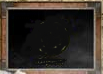
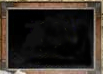
2016-02-27T21:12

diff --git a/frontEnd/js/BackgroundImg.js b/frontEnd/js/BackgroundImg.js
@@ -15,7 +15,6 @@
  */
 function BackgroundImg() {
     var mainImg = {} ;          // главная кртинка( body {background-image}
-    var kHW = 0 ;               // отношение height/width для mainImg
     var clouds = {} ;           // облака
     var philosophyPictures = {} ; // картинки для иллюстрации
     var centralCircle = {} ;      // центральный круг
@@ -29,9 +28,11 @@ function BackgroundImg() {
     var $centralCircleTextBlock = $('#centralCircleText') ;
     var $stampBlock = $('#stamp') ;
     var animateStop = false ;
+    var centralCircleText ;       // объект поддержки размера области ввода
     var _this = this ;
     //------------------------------------//
     this.init = function() {
+        centralCircleText = new CentralCircleText() ;
         dirSmoke = dirImages + '/smoke' ;
         dirPictures =  dirImages + '/philosophy' ;
         dirMainImg =   dirImages + '/userInterface' ;
@@ -561,9 +562,6 @@ function BackgroundImg() {
         _this.defineAbsolutePosition($centralCircleBlock,place,ballPicture) ;
         defineTextArea($centralCircleTextBlock,textAreaPlace,textAreaBackGround,
             currentColor,0,readonly,idText) ;
-
- //           centralCircleRotate($centralCircleBlock) ;
-
     } ;
     this.defineAbsolutePosition = function($block,place,imgFile) {
         $block.css('position','absolute') ;
@@ -592,25 +590,31 @@ function BackgroundImg() {
         $block.css('left',x1) ;
         $block.css('color',color) ;
         if (readonly) {
-            $txt.attr('readonly','readonly') ;
+            return ;
         }else {
             $txt.removeAttr('readonly') ;
         }
+        var txtWidth = x2 - x1 ;
+        var txtHeight = y2 - y1 ;
+
+        $block.css('width',txtWidth) ;
+        $block.css('height',txtHeight) ;
+
         $txt.removeAttr('hidden') ;
-        $txt.css('width',x2 - x1) ;
-        $txt.attr('id',idText) ;
-        $txt.css('max-width',x2 - x1) ;
-        $txt.css('height',y2 - y1) ;
-        $txt.css('max-height',y2 - y1) ;
-        $block.css('background-image','url("'+imgFile +'")') ;
-        $block.css('background-repeat','no-repeat') ;
-        $block.css('background-size','100% 100%') ;
-        $block.css('overflow','hidden') ;
-        $txt.css('background-color','rgba(0,0,0,0)') ;
-        $txt.css('color',color) ;
-        $txt.css('border','0') ;
+
         $block.append($txt) ;
 
+        $txt.css('width',0.95*txtWidth) ;
+        //$txt.css('margin-left',5) ;
+        //$txt.css('margin-right',5) ;
+         $txt.attr('id',idText) ;
+        $txt.css('height',0.97 * txtHeight) ;
+        $txt.css('max-height',0.8 * txtHeight) ;
+        $block.css('overflow','hidden') ;
+        $txt.css('background','transparent') ;
+        $txt.css('color',color) ;
+
+        centralCircleText.init(txtWidth,txtHeight,$txt) ;
     } ;
     /**
      * ид области ввода текста
@@ -619,6 +623,9 @@ function BackgroundImg() {
      */
     this.getIdText = function(showType) {
         return centralCircle[showType]['idText'] ;
+    } ;
+    this.getTextAreaBlock = function() {
+        return $centralCircleTextBlock ;
     } ;
     this.centralCircleRotate = function(callback) {
         $centralCircleTextBlock.attr('hidden', 'hidden');

diff --git a/frontEnd/js/CentralCircleText.js b/frontEnd/js/CentralCircleText.js
@@ -1,0 +1,61 @@
+/**
+ * Объект поддерживает изменение рзмеров при вводе
+ * области textArea в центральном круге
+ */
+function CentralCircleText() {
+    var $textArea ;                // элемент <textArea>
+    var blockWidth ;                // обрамляющий блок
+    var blockHeight;
+    var currentHeight = 0 ;
+    var MIN_HEIGHT = 30 ;
+    var _this = this ;
+    //------------------------//
+    this.init = function(blockW,blockH,$txt) {
+ //       currentHeight = 0 ;
+        $textArea = $txt ;
+        blockWidth = blockW ;
+        blockHeight = blockH ;
+        currentHeight = (currentHeight === 0) ? MIN_HEIGHT : currentHeight ;
+        $textArea.css('height',currentHeight) ;
+        $textArea.css('mni-height',MIN_HEIGHT) ;
+ //       $textArea.css('width',blockWidth) ;
+        resize() ;
+        $textArea.autoResize({
+            //  при изменение размера:
+            onResize : function() {
+                resize() ;
+            },
+            // после изменения размера:
+            animateCallback : function() {
+                $(this).css({opacity:1});
+            },
+            // Замедляем анимацию:
+            animateDuration : 300,
+            // Увеличиваем отступ:
+            extraSpace : 10,
+            minHeight : MIN_HEIGHT
+        });
+    } ;
+    var resize = function() {
+        var h  = $textArea.height() ;
+        if (h > blockHeight) {
+            $textArea.css('height',blockHeight) ;
+            h = blockHeight ;
+            $textArea.css('margin-top',0) ;
+            return ;
+        }
+        currentHeight = h ;
+        var top = Math.round((blockHeight - h) / 2) ;
+        $textArea.css('margin-top',top) ;
+    } ;
+    /**
+     * преобразовать строку вида 230px в число 230
+     * @param strPixel
+     * @returns {number}
+     */
+    var pixelToNumber = function (strPixel) {
+        var n = strPixel.replace('px', '');
+        return n - 0;
+    };
+
+}

diff --git a/frontEnd/js/PhilosophyForm.js b/frontEnd/js/PhilosophyForm.js
@@ -8,6 +8,7 @@ function PhilosophyForm() {
     var animateStop = false ;
     var $resultBlock = $('#resultBlockPhilosophy') ;
     var $answerArea ;     // область вывода текста
+    var $answerAreaBlock ;
     var formShowFlag = false ;
     var magicNormalPictures ;
     var _this = this ;
@@ -18,13 +19,19 @@ function PhilosophyForm() {
         formAttr.init() ;
         magicNormalPictures = paramSet.magicNormalPictures ;
         formShowFlag = false ;
+        $answerAreaBlock = backgroundImg.getTextAreaBlock() ;
+        $answerAreaBlock.empty() ;
+        $answerAreaBlock.css('text-align','center') ;
+        $answerAreaBlock.css('vertical-align','center') ;
     } ;
      /**
      * изменить фразу
      */
     var phraseChange = function() {
         currentPhrase = formAttr.getPhrase() ;
-         $answerArea.val(currentPhrase) ;
+        $answerAreaBlock.empty() ;
+         $answerAreaBlock.append('<p>' + currentPhrase + '</p>') ;
+//         $answerArea.val(currentPhrase) ;
      } ;
 
     this.queryGo = function() {
@@ -39,8 +46,10 @@ function PhilosophyForm() {
      */
     this.stopShow = function() {
 //        $resultBlock.empty() ;
+
         animateStop = true ;
         formShowFlag = false ;
+        $answerAreaBlock.empty() ;
 
  //       magicNormalPictures.show() ;
     } ;
@@ -117,8 +126,9 @@ function PhilosophyForm() {
         var tmpTimer = setInterval(function () {
             if (animateStop) {        //  остановить цикл анимации)
                 clearInterval(tmpTimer);
+            } else {
+                phraseChange() ;
             }
-            phraseChange() ;
         }, timeDelay);
 
 

diff --git a/frontEnd/js/UserInterface.js b/frontEnd/js/UserInterface.js
@@ -58,11 +58,11 @@ function UserInterface() {
         $(window).on('resize', function () {      // размеры окна браузера
             resize();
         });
-        normalQueryShow() ;
+
         smoke.init();
         smoke.smokeGo();
         backgroundImg.stampShow() ;
-
+        normalQueryShow() ;
 
     } ;
     var normalQueryShow = function() {
@@ -70,11 +70,11 @@ function UserInterface() {
         var idText = backgroundImg.getIdText('query');
         $queryArea = $('#' + idText);
         $queryArea.attr('placeholder', 'введите вопрос');
+
+
+        magicNormalPictures.show() ;
         $queryArea.val(currentQuery);
         $queryArea.focus();
-        magicNormalPictures.show() ;
-
-
     } ;
     /**
      * исполнитель изменения размера окна браузера

diff --git a/frontEnd/js/PhilosophyFormAttr.js b/frontEnd/js/PhilosophyFormAttr.js
@@ -181,7 +181,7 @@ function PhilosophyFormAttr() {
             dir : dirImages + '/animals',
             pictures : [
                 '1_as.jpg',
-                '2_as.jpg',
+                '2_as.jpeg',
                 '3_as.jpg',
                 '4_as.jpg',
                 '5_as.jpg',

diff --git a/index.php b/index.php
@@ -11,6 +11,7 @@ $dirLib = './../lib';
 $dirJstree = $dirLib . '/jstree';
 $dirJquery_ui = $dirLib . '/jquery-ui/jquery-ui-1.11.4';
 $dirMousewheel = $dirLib.'/jquery-mousewheel/mousewheel-3.1.13' ;
+$dirAutoResize = $dirLib.'/textAreaAutoResize' ;
 $dirJs = './frontEnd/js';
 $dirStyle = './frontEnd/styles';
 ?>
@@ -35,7 +36,8 @@ $dirStyle = './frontEnd/styles';
     <script type="text/javascript" src="<?= $dirJquery_ui; ?>/jquery-ui.js"></script>
     <script type="text/javascript" src="<?= $dirJstree; ?>/jstree.js"></script>
     <script type="text/javascript" src="<?= $dirMousewheel; ?>/jquery.mousewheel.js"></script>
-
+    <script type="text/javascript" src="<?= $dirAutoResize; ?>/autoResize.js"></script>
+hj
     <script language="javascript" src="<?= $dirJs; ?>/MainScript.js"></script>
     <script language="javascript" src="<?= $dirJs; ?>/ParamSet.js"></script>
     <script language="javascript" src="<?= $dirJs; ?>/AjaxExecutor.js"></script>
@@ -48,16 +50,15 @@ $dirStyle = './frontEnd/styles';
     <script language="javascript" src="<?= $dirJs; ?>/NodeEditForm.js"></script>
     <script language="javascript" src="<?= $dirJs; ?>/BackgroundImg.js"></script>
     <script language="javascript" src="<?= $dirJs; ?>/ScrollBackground.js"></script>
-    <script language="javascript" src="<?= $dirJs; ?>/testScrollBackground.js"></script>
 
     <script type="text/javascript" src="<?= $dirJs; ?>/SmokeClouds.js"></script>
     <script type="text/javascript" src="<?= $dirJs; ?>/CircularMotion.js"></script>
-    <script type="text/javascript" src="<?= $dirJs; ?>/ResultShow.js"></script>
     <script type="text/javascript" src="<?= $dirJs; ?>/UserInterface.js"></script>
     <script type="text/javascript" src="<?= $dirJs; ?>/RequestGo.js"></script>
     <script type="text/javascript" src="<?= $dirJs; ?>/AjaxRequest.js"></script>
     <script type="text/javascript" src="<?= $dirJs; ?>/Messages.js"></script>
     <script type="text/javascript" src="<?= $dirJs; ?>/MagicNormalPictures.js"></script>
+    <script type="text/javascript" src="<?= $dirJs; ?>/CentralCircleText.js"></script>
 
     <script language="javascript" src="<?= $dirJs; ?>/start.js"></script>
 </head>
